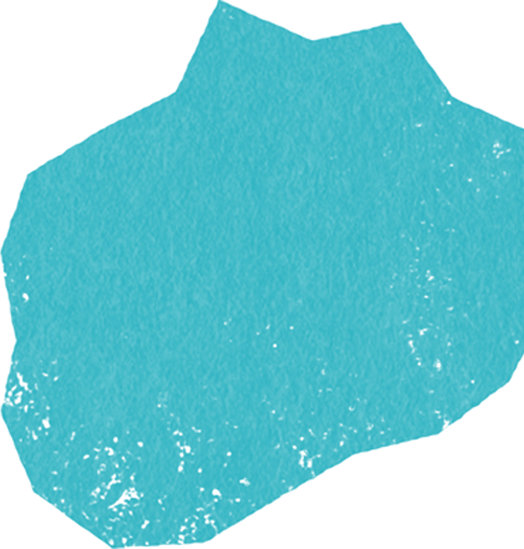
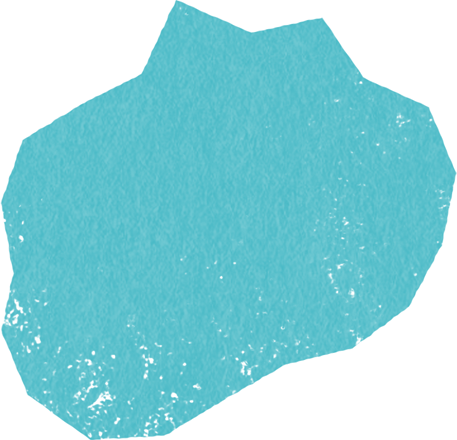
third homepage hero

diff --git a/src/components/molecules/Hero.js b/src/components/molecules/Hero.js
@@ -24,11 +24,14 @@ import tear from './../../../static/img/homepage-hero/tear.png';
 import whiteDots from './../../../static/img/homepage-hero/white_dots.png';
 
 import eyeDoodles from './../../../static/img/homepage-hero/eye_doodles.png';
-import blueBlob from './../../../static/img/homepage-hero/blue_blob.png';
 import pinkBlob from './../../../static/img/homepage-hero/pink_blob.png';
 
 import matrix from './../../../static/img/homepage-hero/matrix.png';
 import greenPaint from './../../../static/img/homepage-hero/green_screenpaint.png';
+
+import blueBlob from './../../../static/img/homepage-hero/blue_blob.png';
+import pinkElephant from './../../../static/img/homepage-hero/pink_elephant.png';
+import orangSicle from './../../../static/img/homepage-hero/orangsicle.png';
 
 const Hero = class extends React.Component {
   constructor(props) {
@@ -91,9 +94,15 @@ const Hero = class extends React.Component {
           <img className = "o-hero__background -eye-doodles" src = { eyeDoodles } />
         </div> */}
 
-        <div className = "o-hero__background-group">
+        {/* <div className = "o-hero__background-group">
           <img className = "o-hero__background -green-paint" src = { greenPaint } />
           <img className = "o-hero__background -matrix" src = { matrix } />
+        </div> */}
+
+        <div className = "o-hero__background-group">
+          <img className = "o-hero__background -orangsicle" src = { orangSicle } />
+          <img className = "o-hero__background -pink-elephant" src = { pinkElephant } />
+          <img className = "o-hero__background -blue-blob" src = { blueBlob } />
         </div>
 
         <div className="o-rhythm__container">

diff --git a/src/assets/scss/03_organism/_hero.scss b/src/assets/scss/03_organism/_hero.scss
@@ -189,16 +189,6 @@
             }
         }
 
-        &.-blue-blob {
-            right: 60px;
-            top: 100px;
-            display: none;
-
-            @include breakpoints("tablet") {
-                display: block;
-            }
-        }
-
         &.-eye-doodles {
             right: -160px;
             top: 10px;
@@ -211,6 +201,11 @@
         &.-matrix {
             right: 80px;
             top: 60px;
+        }
+
+        &.-green-paint {
+            top: 0;
+            right: 0;
             display: none;
 
             @include breakpoints("tablet") {
@@ -218,9 +213,27 @@
             }
         }
 
-        &.-green-paint {
-            top: 0;
+        &.-orangsicle {
             right: 0;
+        }
+
+        &.-pink-elephant {
+            right: 60px;
+            display: none;
+
+            @include breakpoints("tablet") {
+                display: block;
+            }
+        }
+
+        &.-blue-blob {
+            right: 28%;
+            top: 160px;
+            display: none;
+
+            @include breakpoints("tablet") {
+                display: block;
+            }
         }
 
         // &.-jigglydoo {
